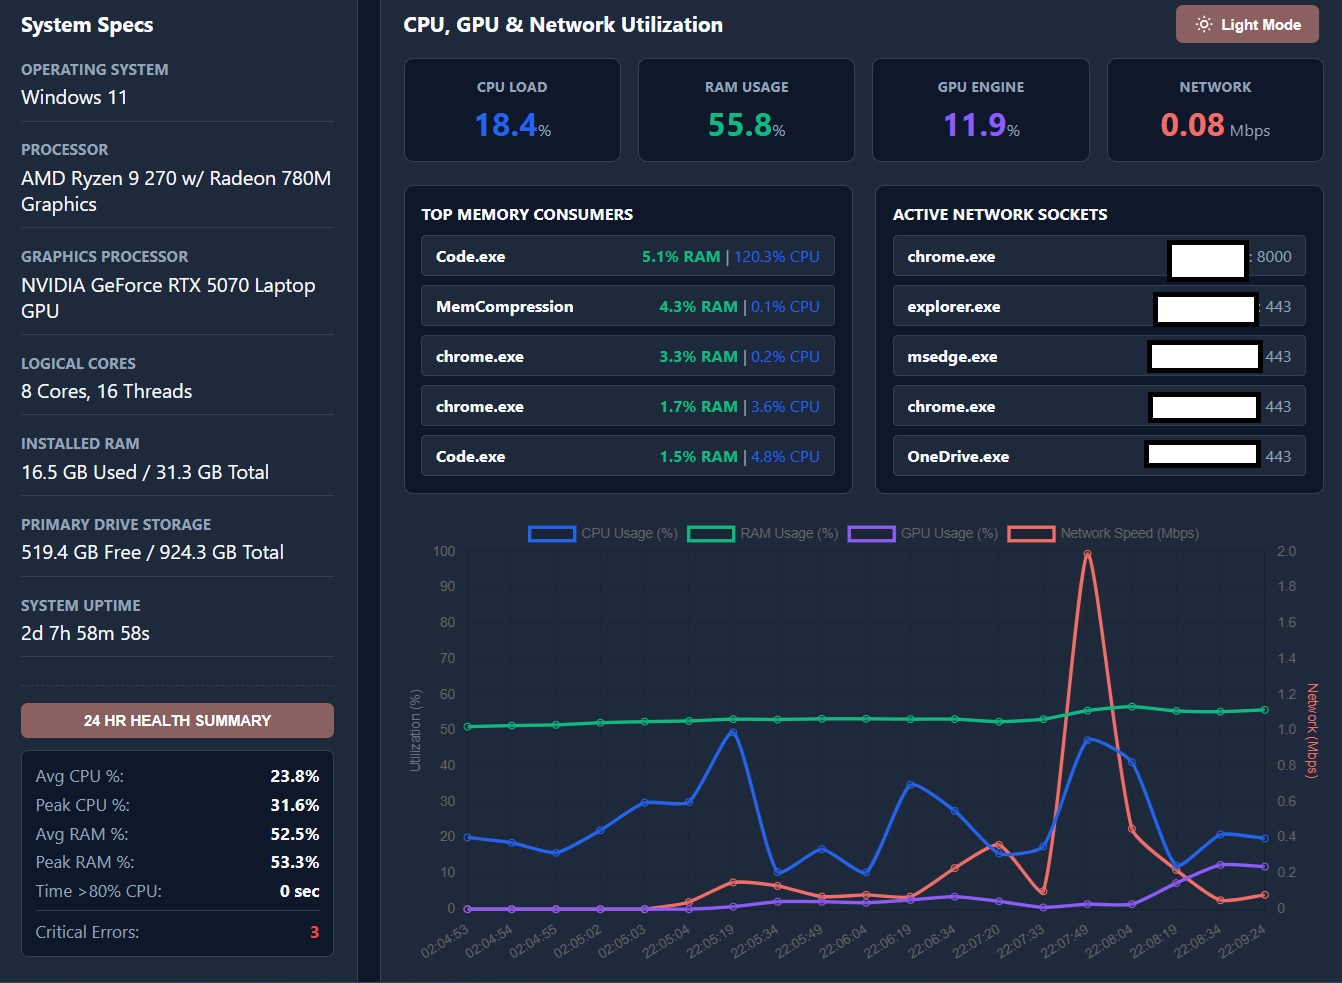
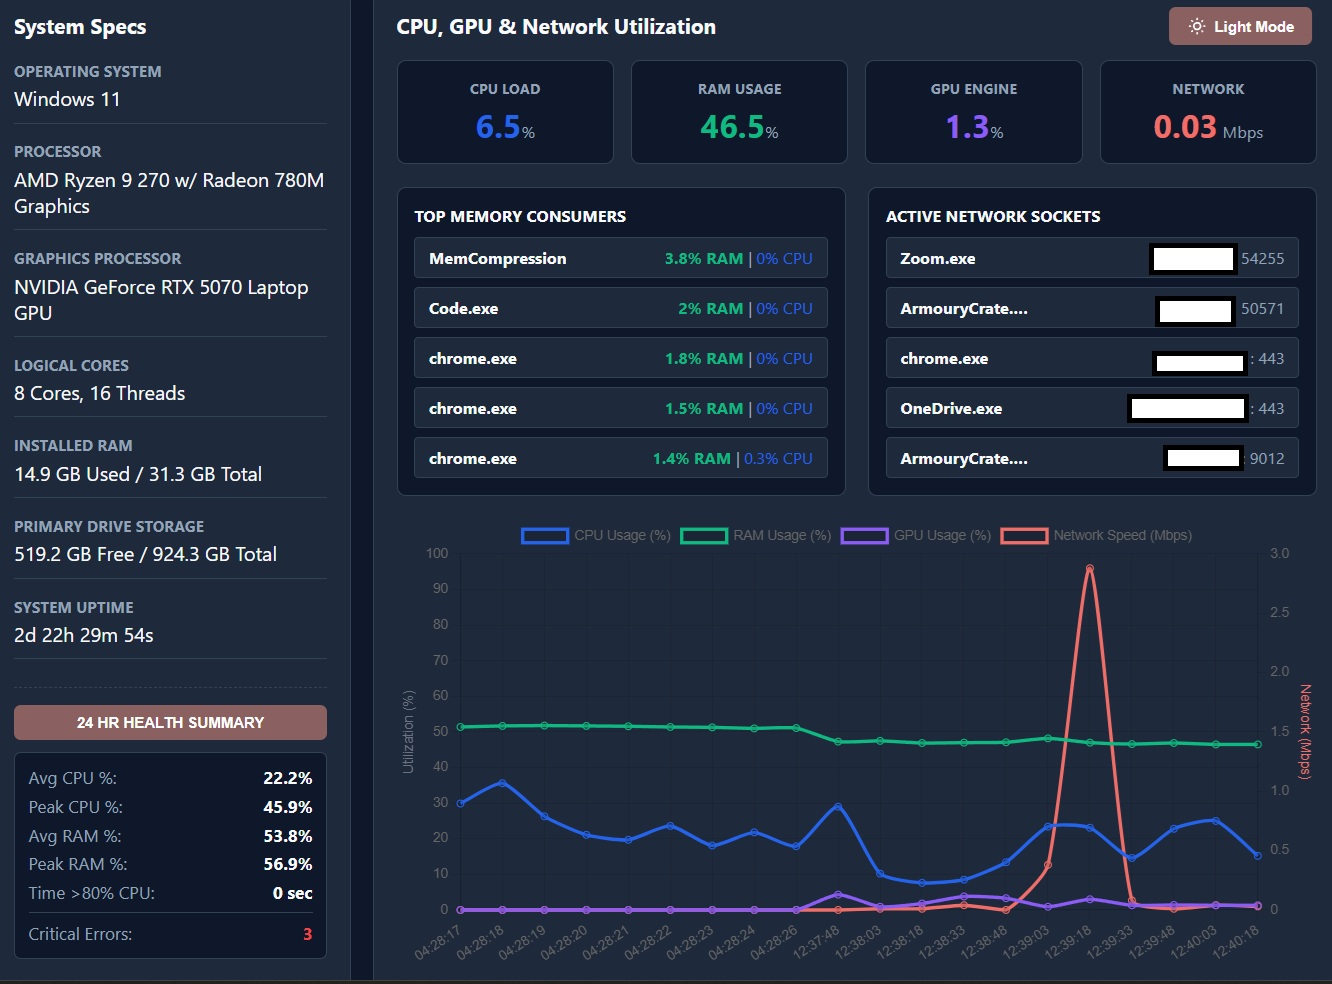
Revamped top memory consumers for accurate CPU usage data in background loop

diff --git a/api.py b/api.py
@@ -40,25 +40,23 @@ except Exception as e:
     print(f"Warning: Gemini Client failed to initialize. Error {e}")
 
 # save the total bytes sent/received at the exact moment the server starts, and the current time
-FAST_CACHE = {"gpu": 0.0, "net_mbps": 0.00}
+FAST_CACHE = {"gpu": 0.0, "net_mbps": 0.00, "top_processes": []}
 last_net_bytes = psutil.net_io_counters().bytes_sent + psutil.net_io_counters().bytes_recv
 last_net_time = time.time()
 
 def background_sensor_loop():
     """Runs continuously in the API background, calculating slow metrics without blocking the server."""
     global last_net_bytes, last_net_time
+
     while True:
         # calculates number of bytes sent and received as well as current time, and calculates the difference
         current_net_bytes = psutil.net_io_counters().bytes_sent + psutil.net_io_counters().bytes_recv
         current_time_now = time.time()
         time_diff = current_time_now - last_net_time
-
-        # total number of bytes from last call to current call, convert from byte to bits, divide by 1 mill for Megabits divide by elapsed time
-        if time_diff > 0:
-            net_mbps = ((current_net_bytes - last_net_bytes) * 8) / 1_000_000 / time_diff
-        else:
-            net_mbps = 0.0
         
+        # total number of bytes from last call to current call, convert from byte to bits, divide by 1 mill for Megabits divide by elapsed time
+        net_mbps = ((current_net_bytes - last_net_bytes) * 8) / 1_000_000 / time_diff if time_diff > 0 else 0.0
+       
         # log the current bytes and time, so that the API can receive the latest data instantly from fast cache
         last_net_bytes = current_net_bytes
         last_net_time = current_time_now
@@ -69,13 +67,27 @@ def background_sensor_loop():
             gpu_cmd = 'powershell -Command "((Get-Counter \'\\GPU Engine(*engtype_3D)\\Utilization Percentage\' -ErrorAction SilentlyContinue).CounterSamples | Measure-Object -Property CookedValue -Sum).Sum"'
             gpu_output = subprocess.check_output(gpu_cmd, shell=True, text=True, timeout=2).strip()
             gpu = round(float(gpu_output), 1) if gpu_output else 0.0
-            
-            if gpu > 100.0: gpu = 100.0
-            FAST_CACHE["gpu"] = gpu
+            FAST_CACHE["gpu"] = min(gpu, 100.0)
         except:
             FAST_CACHE["gpu"] = 0.0
+        
+        processes_data = []
+        # this asks the OS for a list of every running process
+        for proc in psutil.process_iter(['name', 'memory_percent', 'cpu_percent']):
+            try:
+                processes_data.append({
+                    "name": proc.info['name'],
+                    "ram": round(proc.info['memory_percent'] or 0, 1),
+                    "cpu": round(proc.info['cpu_percent'] or 0, 1)
+                })
+            except (psutil.NoSuchProcess, psutil.AccessDenied, psutil.ZombieProcess):
+                pass
 
-        # make sure script wont hang forever, gives up after 2 seconds
+        # only interested in the top 5 processes that are using the most RAM and discard the rest, keeps JSON small and dashboard clean
+        top_procs = sorted(processes_data, key=lambda p: p['ram'], reverse=True)[:5]
+        # save it to the cache
+        FAST_CACHE["top_processes"] = top_procs
+
         time.sleep(2)
 
 def fetch_data(query: str, params: tuple = (), limit: int = 100):
@@ -206,30 +218,7 @@ def get_live_metrics():
     gpu = FAST_CACHE["gpu"]
     net_mbps = FAST_CACHE["net_mbps"]
 
-    processes = []
-
-    # this asks the OS for a list of every running process
-    for proc in psutil.process_iter(['name', 'memory_percent', 'cpu_percent']):
-        try:
-            processes.append(proc.info)
-        except (psutil.NoSuchProcess, psutil.AccessDenied, psutil.ZombieProcess):
-            pass
-    # only interested in the top 5 processes that are using the most RAM and discard the rest, keeps JSON small and dashboard clean
-    top_procs = sorted(processes, key=lambda p: p['memory_percent'] or 0, reverse=True)[:5]
-
-    # find how many threads the CPU has 
-    cores = psutil.cpu_count(logical=True) or 1
-
-    clean_procs = []
-    for p in top_procs:
-        # divide the raw process CPU by the total cores 
-        normalized_cpu = (p['cpu_percent'] or 0) / cores
-
-        clean_procs.append({
-            "name": p['name'],
-            "ram": round(p['memory_percent'] or 0, 1),
-            "cpu": round(normalized_cpu, 1)
-        })
+    clean_procs = FAST_CACHE["top_processes"]
 
     top_conns = []
     try:
